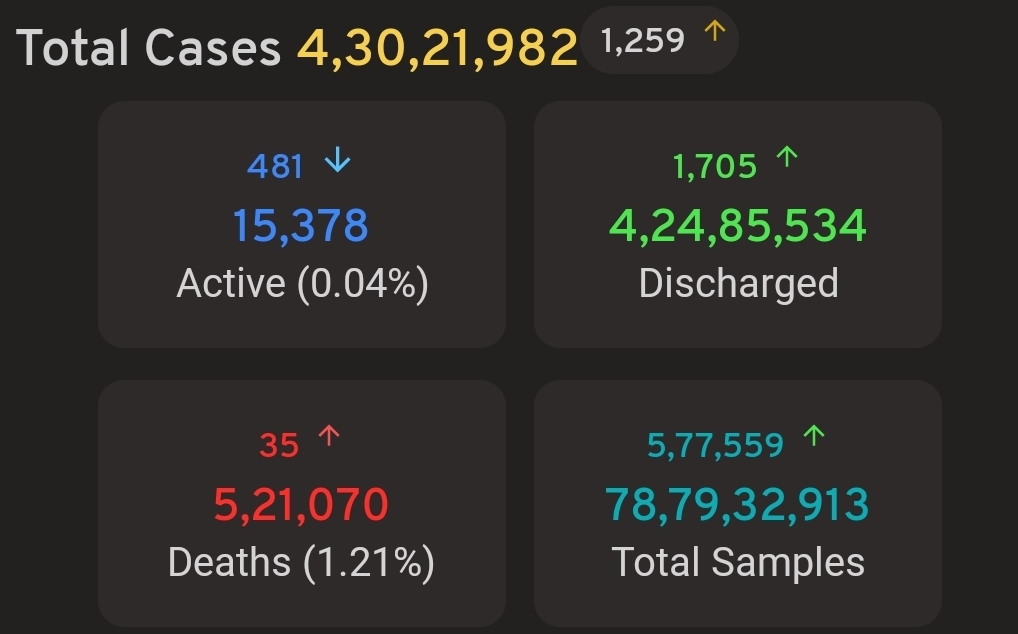
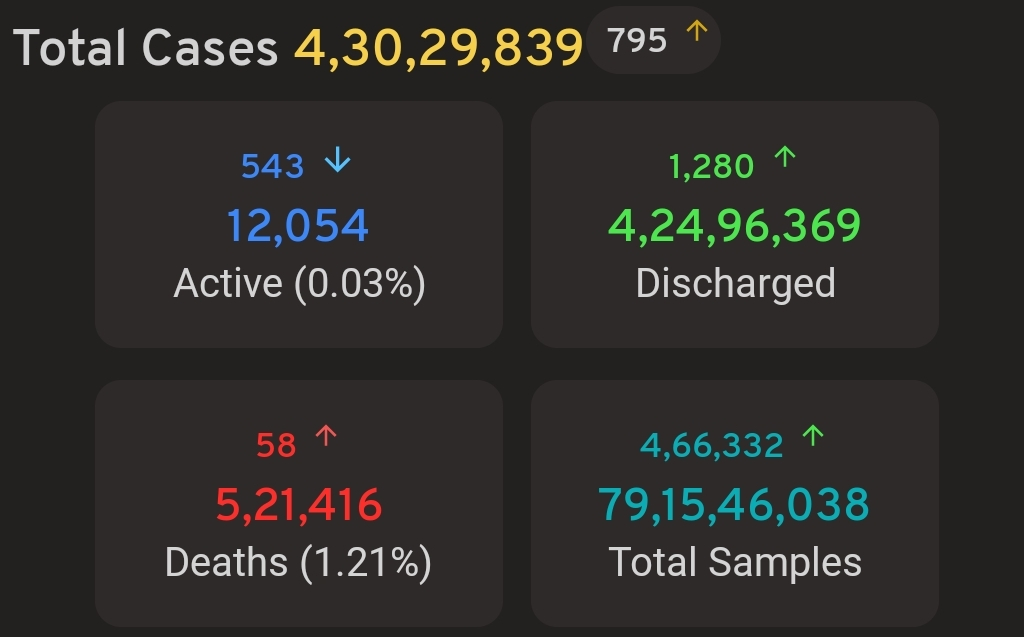
changes 9

diff --git a/index.html b/index.html
@@ -149,24 +149,24 @@
         </div>
         <div class="col s12" id="ind">
           <blockquote style="font-size: x-large; border-left-color: #1e88e5;">
-            <i class="fas fa-virus"></i> Covid 19 (Apr 3, Apr 2)</blockquote>
+            <i class="fas fa-virus"></i> Covid 19 (Apr 4, Apr 3)</blockquote>
           <h6 class="white-text">Source: ICMR/ MyGov<br>&#8595;&#8593; Changes from last 24 hours</h6>
-          <div class="row">
+          <!-- <div class="row">
             <div class="col s12 m12 l6">
               <img src="images/ISUi.png" alt="IndDB" width="100%" class="responsive-img materialboxed">
             </div>
             <div class="col s12 m12 l6">
               <img src="images/ISAi.png" alt="IndDB" width="100%" class="responsive-img materialboxed">
             </div>
-          </div>
-          <!-- <div class="row">
+          </div> -->
+          <div class="row">
             <div class="col s12 m12 l6">
               <img src="images/IMOi.png" alt="IndDB" width="100%" class="responsive-img materialboxed">
             </div>
             <div class="col s12 m12 l6">
               <img src="images/ISUi.png" alt="IndDB" width="100%" class="responsive-img materialboxed">
             </div>
-          </div> -->
+          </div>
           <!-- <div class="row">
             <div class="col s12 m12 l6">
               <img src="images/ITUi.png" alt="IndDB" width="100%" class="responsive-img materialboxed">
@@ -208,25 +208,25 @@
             </div>
           </div> -->
           <blockquote style="font-size: x-large; border-left-color: #1e88e5;">
-            <i class="fas fa-syringe"></i> Vaccination (Apr 3, Apr 2)</blockquote>
-          <div class="row">
+            <i class="fas fa-syringe"></i> Vaccination (Apr 4, Apr 3)</blockquote>
+          <!-- <div class="row">
             <div class="col s12 m12 l6">
               <img src="images/ISUii.png" alt="IndDB" width="100%" class="responsive-img materialboxed">
             </div>
             <div class="col s12 m12 l6">
               <img src="images/ISAii.png" alt="IndDB" width="100%" class="responsive-img materialboxed">
+            </div>
+          </div> -->
+          <div class="row">
+            <div class="col s12 m12 l6">
+              <img src="images/IMOii.png" alt="IndDB" width="100%" class="responsive-img materialboxed">
+            </div>
+            <div class="col s12 m12 l6">
+              <img src="images/ISUii.png" alt="IndDB" width="100%" class="responsive-img materialboxed">
             </div>
           </div>
           <!-- <div class="row">
             <div class="col s12 m12 l6">
-              <img src="images/IMOii.png" alt="IndDB" width="100%" class="responsive-img materialboxed">
-            </div>
-            <div class="col s12 m12 l6">
-              <img src="images/ISUii.png" alt="IndDB" width="100%" class="responsive-img materialboxed">
-            </div>
-          </div> -->
-          <!-- <div class="row">
-            <div class="col s12 m12 l6">
               <img src="images/ITUii.png" alt="IndDB" width="100%" class="responsive-img materialboxed">
             </div>
             <div class="col s12 m12 l6">
@@ -265,12 +265,12 @@
               <img src="images/IFRii.png" alt="IndDB" width="100%" class="responsive-img materialboxed">
             </div>
           </div> -->
-          <h6>Below Data as on April 4, 13:45 IST</h6>
+          <h6>Below Data as on April 5, 16:05 IST</h6>
           <div class="row">
             <div class="col s12 m6 l4">
               <div class="card-panel grey darken-4 white-text">
                 <h5><b>Vaccine Doses availability</b></h5>
-                <p>As on April 4, Source: PIB India</p>
+                <p>As on April 5, Source: PIB India</p>
                 <p><b>Supplied</b>: 185.21 Crores</p>
                 <p><b>Balance</b>: 15.55 Crores</p>
               </div>
@@ -327,8 +327,8 @@
         </div>
         <div class="col s12" id="sta">
           <blockquote style="font-size: x-large; border-left-color: #1e88e5;">
-            <i class="fas fa-virus"></i> Covid 19 (Apr 3, Apr 2)</blockquote>
-          <div class="row">
+            <i class="fas fa-virus"></i> Covid 19 (Apr 4, Apr 3)</blockquote>
+          <!-- <div class="row">
             <div class="col s12 m12 l3">
               <img src="images/SSUi.png" alt="StatDB1" width="100%" class="responsive-img materialboxed">
             </div>
@@ -341,8 +341,8 @@
             <div class="col s12 m12 l3">
               <img src="images/SSUiv.png" alt="StatDB4" width="100%" class="responsive-img materialboxed">
             </div>
-          </div>
-          <!-- <div class="row">
+          </div> -->
+          <div class="row">
             <div class="col s12 m12 l3">
               <img src="images/SMOi.png" alt="StatDB1" width="100%" class="responsive-img materialboxed">
             </div>
@@ -355,7 +355,7 @@
             <div class="col s12 m12 l3">
               <img src="images/SMOiv.png" alt="StatDB4" width="100%" class="responsive-img materialboxed">
             </div>
-          </div> -->
+          </div>
           <!-- <div class="row">
             <div class="col s12 m12 l3">
               <img src="images/STUi.png" alt="StatDB1" width="100%" class="responsive-img materialboxed">
@@ -412,7 +412,7 @@
               <img src="images/SFRiv.png" alt="StatDB4" width="100%" class="responsive-img materialboxed">
             </div>
           </div> -->
-          <div class="row">
+          <!-- <div class="row">
             <div class="col s12 m12 l3">
               <img src="images/SSAi.png" alt="StatDB1" width="100%" class="responsive-img materialboxed">
             </div>
@@ -425,8 +425,8 @@
             <div class="col s12 m12 l3">
               <img src="images/SSAiv.png" alt="StatDB4" width="100%" class="responsive-img materialboxed">
             </div>
-          </div>
-          <!-- <div class="row">
+          </div> -->
+          <div class="row">
             <div class="col s12 m12 l3">
               <img src="images/SSUi.png" alt="StatDB1" width="100%" class="responsive-img materialboxed">
             </div>
@@ -439,7 +439,7 @@
             <div class="col s12 m12 l3">
               <img src="images/SSUiv.png" alt="StatDB4" width="100%" class="responsive-img materialboxed">
             </div>
-          </div> -->
+          </div>
           <!-- <div class="row">
             <div class="col s12 m12 l3">
               <img src="images/SMOi.png" alt="StatDB1" width="100%" class="responsive-img materialboxed">
@@ -511,8 +511,8 @@
             </div>
           </div> -->
           <blockquote style="font-size: x-large; border-left-color: #1e88e5;">
-            <i class="fas fa-syringe"></i> Vaccination (Apr 3, Apr 2)</blockquote>
-          <div class="row">
+            <i class="fas fa-syringe"></i> Vaccination (Apr 4, Apr 3)</blockquote>
+          <!-- <div class="row">
             <div class="col s12 m12 l3">
               <img src="images/VSUi.png" alt="VacDB1" width="100%" class="responsive-img materialboxed">
             </div>
@@ -525,8 +525,8 @@
             <div class="col s12 m12 l3">
               <img src="images/VSAii.png" alt="VacDB2" width="100%" class="responsive-img materialboxed">
             </div>
-          </div>
-          <!-- <div class="row">
+          </div> -->
+          <div class="row">
             <div class="col s12 m12 l3">
               <img src="images/VMOi.png" alt="VacDB1" width="100%" class="responsive-img materialboxed">
             </div>
@@ -539,7 +539,7 @@
             <div class="col s12 m12 l3">
               <img src="images/VSUii.png" alt="VacDB2" width="100%" class="responsive-img materialboxed">
             </div>
-          </div> -->
+          </div>
           <!-- <div class="row">
             <div class="col s12 m12 l3">
               <img src="images/VTUi.png" alt="VacDB1" width="100%" class="responsive-img materialboxed">
